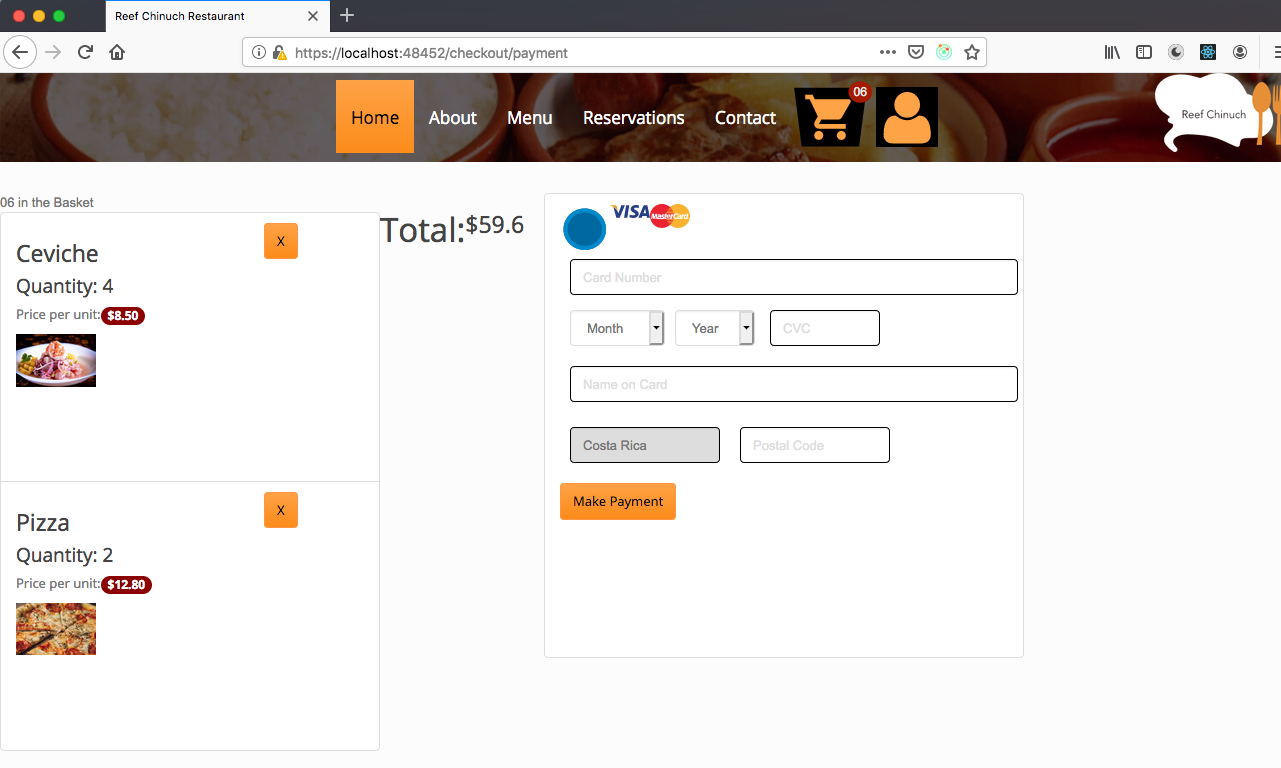
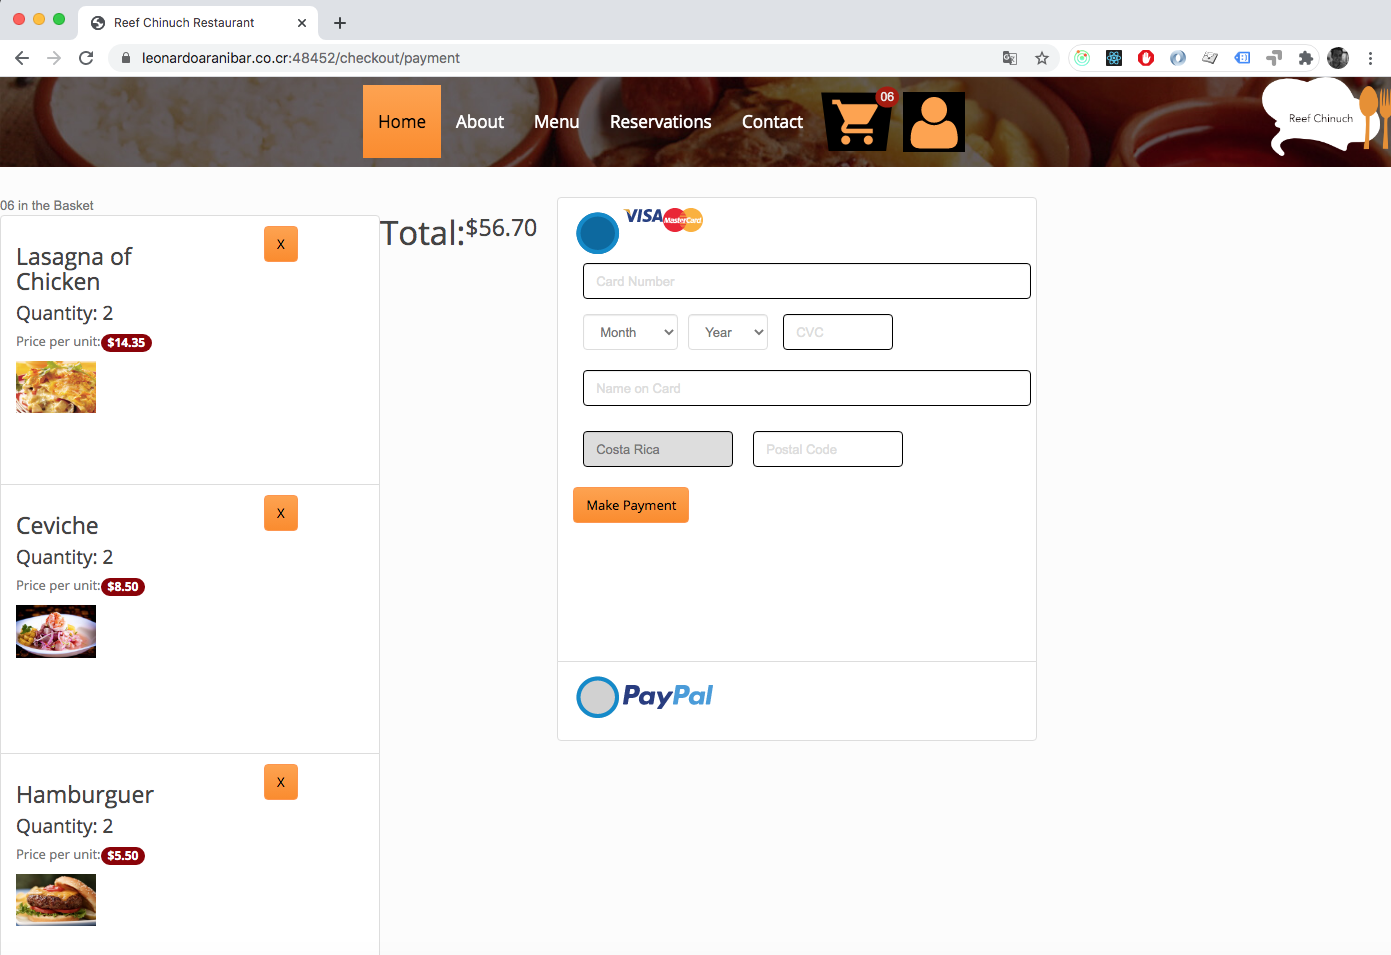
Updating README.md

diff --git a/README.md b/README.md
@@ -40,6 +40,9 @@ React SSR+Redux+Postgresql or MySQL +Webpack+Nodejs
 ### Checkout
 <img src="screenshots/checkout.png"/>
 
+### Checkout - Pay with Paypal
+<img src="screenshots/checkout_paypal.png"/>
+
 ## Available Scripts
 
 In the project directory, you can run:
